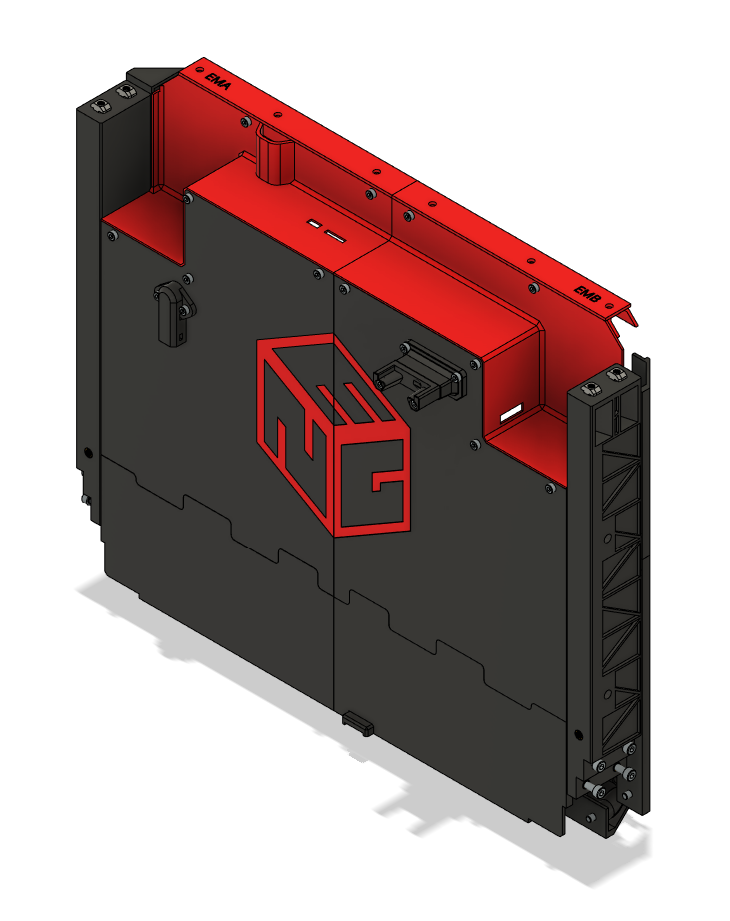
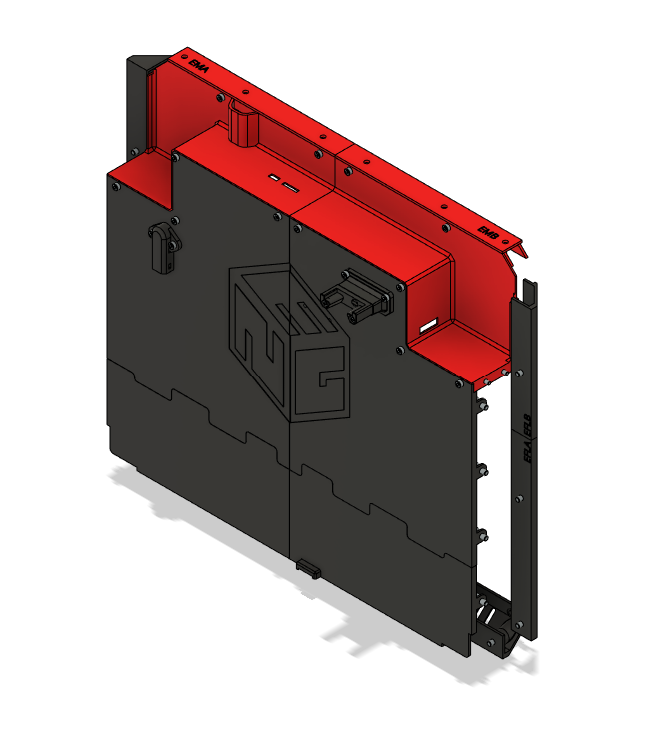
Add side aluminium extrusions

diff --git a/2.electronics/electronics.md b/2.electronics/electronics.md
@@ -38,34 +38,24 @@ Rear part of the printer
 | [H3](#h3---eng-ema-and-eng-emb), [G5](#g5---attach-eng-ema-and-eng-emb) | ENG-EMB | 1 | Printed
 | [H3](#h3---eng-ema-and-eng-emb) | M3 heat insert standard | 5 | Hardware | For ENG-EMB
 | [G5](#g5---attach-eng-ema-and-eng-emb) | M3x6 | 4 | Hardware | Connect ENG-EMA and ENG-EMB to ENG-ESA and ENG-ESB
-| [P9](#p9---eng-est), [G6](#g6---attach-back-plate-to-the-rear-part-of-the-bottom-frame) | ENG-EST | 1 | Printed
-| [G6](#g6---attach-back-plate-to-the-rear-part-of-the-bottom-frame) | M4x8 | 4 | Hardware | Connect Back plate to Bottom frame
-| [G6](#g6---attach-back-plate-to-the-rear-part-of-the-bottom-frame) | M4 T-nut | 4 | Hardware | Connect Back plate to Bottom frame
-| [H4](#h4---eng-ftl-and-eng-ftr), [G7](#g7---attach-side-frame) | ENG-FTL | 1 | Printed
-| [H4](#h4---eng-ftl-and-eng-ftr) | M4 heat insert standard | 11 | Hardware | For ENG-FTL
-| [H4](#h4---eng-ftl-and-eng-ftr) | M3 heat insert standard | 2 | Hardware | For ENG-FTL
-| [G7](#g7---attach-side-frame) | M4x16 | 4 | Hardware | Connect ENG-FTL to ENG-BRL
-| [G7](#g7---attach-side-frame) | M4x8 | 3 | Hardware | Connect ENG-FTL to ENG-EPA1
-| [G7](#g7---attach-side-frame) | M4x8 | 1 | Hardware | Connect ENG-FTL to ENG-EPA2
-| [G7](#g7---attach-side-frame) | M3x6 | 2 | Hardware | Connect ENG-FTL to ENG-ESA
-| [H4](#h4---eng-ftl-and-eng-ftr), [G7](#g7---attach-side-frame) | ENG-FTR | 1 | Printed
-| [H4](#h4---eng-ftl-and-eng-ftr) | M4 heat insert standard | 11 | Hardware | For ENG-FTR
-| [H4](#h4---eng-ftl-and-eng-ftr) | M3 heat insert standard | 2 | Hardware | For ENG-FTR
-| [G7](#g7---attach-side-frame) | M4x16 | 4 | Hardware | Connect ENG-FTR to ENG-BRR
-| [G7](#g7---attach-side-frame) | M4x8 | 3 | Hardware | Connect ENG-FTR to ENG-EPB1
-| [G7](#g7---attach-side-frame) | M4x8 | 1 | Hardware | Connect ENG-FTR to ENG-EPB2
-| [G7](#g7---attach-side-frame) | M3x6 | 2 | Hardware | Connect ENG-FTL to ENG-ESB
-| [H5](#h5---eng-efba-and-eng-efbb), [G8.1](#g81---prepare-bottom-frame-rim) | ENG-EFBA | 1 | Printed
-| [H5](#h5---eng-efba-and-eng-efbb), [G8.1](#g81---prepare-bottom-frame-rim) | ENG-EFBB | 1 | Printed
-| [H5](#h5---eng-efba-and-eng-efbb) | M3 heat insert standard | 4 | For ENG-EFBA and ENG-EFBB
+| [G6](#g6---attach-side-frame) | M4x8 | 3 | Hardware | Connect left side to ENG-EPA1
+| [G6](#g6---attach-side-frame) | M4x8 | 1 | Hardware | Connect left side to ENG-EPA2
+| [G6](#g6---attach-side-frame) | M4x8 | 3 | Hardware | Connect right side to ENG-EPB1
+| [G6](#g6---attach-side-frame) | M4x8 | 1 | Hardware | Connect right side to ENG-EPB2
+| [P9](#p9---eng-est), [G7](#g7---attach-back-plate-to-the-rear-part-of-the-bottom-frame) | ENG-EST | 1 | Printed
+| [G7](#g7---attach-back-plate-to-the-rear-part-of-the-bottom-frame) | M4x8 | 4 | Hardware | Connect Back plate to Bottom frame
+| [G7](#g7---attach-back-plate-to-the-rear-part-of-the-bottom-frame) | M4 T-nut | 4 | Hardware | Connect Back plate to Bottom frame
+| [H4](#h4---eng-efba-and-eng-efbb), [G8.1](#g81---prepare-bottom-frame-rim) | ENG-EFBA | 1 | Printed
+| [H4](#h4---eng-efba-and-eng-efbb), [G8.1](#g81---prepare-bottom-frame-rim) | ENG-EFBB | 1 | Printed
+| [H4](#h4---eng-efba-and-eng-efbb) | M3 heat insert standard | 4 | For ENG-EFBA and ENG-EFBB
 | [P10](#p10---eng-efj), [G8.1](#g81---prepare-bottom-frame-rim) | ENG-EFJ | 1 | Printed
 | [G8.2](#g82---screw-bottom-frame-rim-to-back-plate) | M4x10 | 4 | Hardware | Connect ENG-EFBA, ENG-EFBB, and ENG-EFJ to back plate
-| [H6](#h6---eng-efla-and-eng-efrb), [#G9.1](#g91---prepare-side-frame-rims) | ENG-EFLA | 1 | Printed
-| [H6](#h6---eng-efla-and-eng-efrb), [#G9.1](#g91---prepare-side-frame-rims) | ENG-EFRB | 1 | Printed
-| [H6](#h6---eng-efla-and-eng-efrb) | M3 heat insert standard | 4 | For ENG-EFLA and ENG-EFRB
-| [H7](#h7---eng-eflb-and-eng-efra), [#G9.1](#g91---prepare-side-frame-rims) | ENG-EFLB | 1 | Printed
-| [H7](#h7---eng-eflb-and-eng-efra), [#G9.1](#g91---prepare-side-frame-rims) | ENG-EFRA | 1 | Printed
-| [H7](#h7---eng-eflb-and-eng-efra) | M3 heat insert standard | 2 | For ENG-EFLB and ENG-EFRA
+| [H5](#h5---eng-efla-and-eng-efrb), [#G9.1](#g91---prepare-side-frame-rims) | ENG-EFLA | 1 | Printed
+| [H5](#h5---eng-efla-and-eng-efrb), [#G9.1](#g91---prepare-side-frame-rims) | ENG-EFRB | 1 | Printed
+| [H5](#h5---eng-efla-and-eng-efrb) | M3 heat insert standard | 4 | For ENG-EFLA and ENG-EFRB
+| [H6](#h6---eng-eflb-and-eng-efra), [#G9.1](#g91---prepare-side-frame-rims) | ENG-EFLB | 1 | Printed
+| [H6](#h6---eng-eflb-and-eng-efra), [#G9.1](#g91---prepare-side-frame-rims) | ENG-EFRA | 1 | Printed
+| [H6](#h6---eng-eflb-and-eng-efra) | M3 heat insert standard | 2 | For ENG-EFLB and ENG-EFRA
 | [P10](#p10---eng-efj), [#G9.1](#g91---prepare-side-frame-rims) | ENG-EFJ | 2 | Printed
 | [G9.2](#g92---screw-side-frame-rims-to-back-plate) | M4x10 | 6 | Hardware | Connect ENG-EFLA, ENG-EFRB, ENG-EFLB, ENG-EFRA, 2 ENG-EFJ to back plates
 | [P11](#p11---eng-kpm), [G10.1](#g101---attach-eng-kpm-to-the-back-plate) | ENG-KPM | 1 | Printed
@@ -75,6 +65,19 @@ Rear part of the printer
 | [P13](#p13---eng-ebc), [G11](#g11---attach-eng-ebc-to-back-plate) | ENG-EBC | 1 | Printed
 | [G11](#g11---attach-eng-ebc-to-back-plate) | M3x12 | 2 | Hardware | Connect ENG-EBC to ENG-EPA1
 
+#### RF.A - Specific parts for the Printed version of rear frames
+
+| Step | Part | Count | Type | Note |
+| ---- | ---- | ----- | ---- | ---- |
+| [G6](#g6---attach-side-frame) | M3x6 | 2 | Hardware | Connect ENG-FTL to ENG-ESA
+| [G6](#g6---attach-side-frame) | M3x6 | 2 | Hardware | Connect ENG-FTR to ENG-ESB
+
+#### RF.B/RF.C/RF.D - Specific parts for the 2040 aluminium extrusion versions of rear frames
+
+| Step | Part | Count | Type | Note |
+| ---- | ---- | ----- | ---- | ---- |
+| [G6](#g6---attach-side-frame) | M4 T-nut | 8 | Hardware | Connect sides to back plate
+| [G9.2](#g92---screw-side-frame-rims-to-back-plate) | M4 T-nut | 6 | Hardware | Connect frame rim to sides
 
 #### Ender 3 Pro Specific parts
 
@@ -177,19 +180,7 @@ Each part has 5 standard M3 heat inserts.
 
 <img src="eng_ema-heatinserts.png" alt="ENG-EMA Heat Inserts" height="100"/>
 
-#### H4 - ENG-FTL and ENG-FTR
-
-ENG-FTL and ENG-FTR are mirrored parts.
-
-<img src="eng_ftl.png" alt="ENG-FTL" height="400"/>
-<img src="eng_ftr.png" alt="ENG-FTR" height="400"/>
-
-Each part has 11 standand M4 inserts and 2 standard M3 inserts. The first figure below shows M4 ones, and the second shows M3 ones.
-
-<img src="eng_ftl-m4inserts.png" alt="ENG-FTL - M4 Heat Inserts" height="400"/>
-<img src="eng_ftl-m3inserts.png" alt="ENG-FTL - M3 Heat Inserts" height="400"/>
-
-#### H5 - ENG-EFBA and ENG-EFBB
+#### H4 - ENG-EFBA and ENG-EFBB
 
 ENG-EFBA and ENG-EFBB are mirrored parts.
 
@@ -198,7 +189,7 @@ ENG-EFBA and ENG-EFBB are mirrored parts.
 
 Each part has 2 standerd M3 heat inserts, as shown above.
 
-#### H6 - ENG-EFLA and ENG-EFRB
+#### H5 - ENG-EFLA and ENG-EFRB
 
 ENG-EFLA and ENG-EFRB are mirrored parts.
 
@@ -207,7 +198,7 @@ ENG-EFLA and ENG-EFRB are mirrored parts.
 
 Each part has 2 standerd M3 heat inserts, as shown above.
 
-#### H7 - ENG-EFLB and ENG-EFRA
+#### H6 - ENG-EFLB and ENG-EFRA
 
 ENG-EFLB and ENG-EFRA are mirrored parts.
 
@@ -263,19 +254,25 @@ Use 4 M3x6 to attach ENG-EMA and ENG-EMB to ENG-ESA and ENG-ESB
 
 <img src="step5.png" alt="Step 5" height="300"/>
 
-#### G6 - Attach Back plate to the rear part of the bottom frame
+#### G6 - Attach side frame
 
-Use 4 M4x8, 4 M4 T-nuts, and add ENG-EST in the proper position.
+For each side:
+
+- Use 3 M4x8 to attach side to ENG-EPA1/ENG-EPB1. 
+- Use 1 M4x8 to attach side to ENG-EPA2/ENG-EPB2. 
 
 <img src="step6.png" alt="Step 6" height="300"/>
 
-#### G7 - Attach side frame
+If you are using aluminium extrusion sides (RF.B, RF.C, RF.D), use 4 M4 T-nuts in each side too. Prepare them in advance and slide back plate into position.
 
-For each side:
-- Use 4 M4x16 to attach ENG-FTL/ENG-FTR to ENG-BRL/ENG-BRR (bottom corners). 
-- Use 3 M4x8 to attach ENG-FTL/ENG-FTR to ENG-EPA1/ENG-EPB1. 
-- Use 1 M4x8 to attach ENG-FTL/ENG-FTR to ENG-EPA2/ENG-EPB2. 
-- Use 2 M3x6 to attach ENG-FLT/ENG-FTR to ENG-ESA/ENG-ESB. 
+If you are using printed version (RF.A), use 2 M3x6 to attach ENG-FLT/ENG-FTR to ENG-ESA/ENG-ESB. 
+
+<img src="step6rfa.png" alt="Step 6:RF.A" height="300"/>
+![Alt text](image.png)
+
+#### G7 - Attach Back plate to the rear part of the bottom frame
+
+Use 4 M4x8, 4 M4 T-nuts, and add ENG-EST in the proper position.
 
 <img src="step7.png" alt="Step 7" height="300"/>
 
@@ -307,6 +304,8 @@ Glue 1 ENG-EFJ to ENG-EFRA and ENG-EFRB.
 #### G9.2 - Screw Side Frame Rims to Back Plate
 
 Use 6 M4x10.
+
+If you are using aluminium extrusion sides (RF.B, RF.C, RF.D), use 6 M4 T-nuts.
 
 <img src="step9.2.png" alt="Step 9.2" height="300"/>
 

diff --git a/1.bottom/bottom.md b/1.bottom/bottom.md
@@ -4,6 +4,14 @@ Bottom frame and Z lift.
 
 ![Expected result](bottom.png)
 
+Note:  In the previous version of this guide, installing the rear frame ([G16](#g16---install-the-rear-frames)) was part of [Electronics/G6](../3.electronics/electronics.md#g6---attach-side-frame). It was moved here because there are 4 alternatives of rear frames, and installing the aluminium ones on the electronics enclosure without guidance would be challenging. If you are using alternative RF.A, it maybe better to attach the side frame to the electronics enclosure before attaching it to the bottom frame, as suggested before (during Electronics/G6). Here are the alternatives of rear frames:
+
+- Alternative RF.A (default): printed version
+- Alternative RF.B: 2x 350mm 2040 aluminium extrusion
+- Alternative RF.C: 2x 300mm 2040 aluminium extrusion
+- Alternative RF.D: 2x 310mm 2040 aluminium extrusion
+
+
 ## Table of Contents 
 
 - [BOM](#bom)
@@ -17,10 +25,6 @@ Bottom frame and Z lift.
 
 | Step | Part | Count | Type | Note |
 | ---- | ---- | ----- | ---- | ---- |
-| [H1](#h1---eng-blr-and-eng-blr), [G1](#g1---get-corners) | ENG-BLR | 1 | Printed |
-| [H1](#h1---eng-blr-and-eng-blr) | M4 heat insert standard | 2 | Hardware | For ENG-BLR
-| [H1](#h1---eng-blr-and-eng-blr), [G1](#g1---get-corners) | ENG-BRR| 1 | Printed |
-| [H1](#h1---eng-blr-and-eng-blr) | M4 heat insert standard | 2 | Hardware | For ENG-BRR
 | [H2](#h2---eng-blfa-and-eng-brfa), [G1](#g1---get-corners) | ENG-BLFA| 1 | Printed |
 | [H2](#h2---eng-blfa-and-eng-brfa) | M4 heat insert standard | 6 | Hardware | For ENG-BLFA
 | [H2](#h2---eng-blfa-and-eng-brfa) | M5 heat insert standard | 2 | Hardware | For ENG-BLFA
@@ -76,6 +80,32 @@ Bottom frame and Z lift.
 | [G14](#g14---add-two-bearing-systems-to-z-belt) | M5x20 | 1 | Hardware | Connect bearing to ENG-ZBT1/ENG-ZBT2
 | [G15](#g15---add-linear-rods) | Z linear rods 12x350mm | 2 | Motion
 | [G15](#g15---add-linear-rods) | M4x8 grubscrew | 2 | Hardware
+
+#### RF.A - Specific parts for the Printed version of rear frames
+
+| Step | Part | Count | Type | Note |
+| ---- | ---- | ----- | ---- | ---- |
+| [H1:RF.A](#h1rfa---eng-blr-and-eng-blr), [G1](#g1---get-corners) | ENG-BLR | 1 | Printed |
+| [H1:RF.A](#h1rfa---eng-blr-and-eng-blr) | M4 heat insert standard | 2 | Hardware | For ENG-BLR
+| [H1:RF.A](#h1rfa---eng-blr-and-eng-blr), [G1](#g1---get-corners) | ENG-BRR| 1 | Printed |
+| [H1:RF.A](#h1rfa---eng-blr-and-eng-blr) | M4 heat insert standard | 2 | Hardware | For ENG-BRR
+| [H8:RF.A](#h8rfa---eng-ftl-and-eng-ftr), [G16:RF.A](#g16rfa---printed-version) | ENG-FTL | 1 | Printed
+| [H8:RF.A](#h8rfa---eng-ftl-and-eng-ftr) | M4 heat insert standard | 11 | Hardware | For ENG-FTL
+| [H8:RF.A](#h8rfa---eng-ftl-and-eng-ftr) | M3 heat insert standard | 2 | Hardware | For ENG-FTL
+| [H8:RF.A](#h8rfa---eng-ftl-and-eng-ftr), [G16:RF.A](#g16rfa---printed-version) | ENG-FTR | 1 | Printed
+| [H8:RF.A](#h8rfa---eng-ftl-and-eng-ftr) | M4 heat insert standard | 11 | Hardware | For ENG-FTR
+| [H8:RF.A](#h8rfa---eng-ftl-and-eng-ftr) | M3 heat insert standard | 2 | Hardware | For ENG-FTR
+| [G16:RF.A](#g16rfa---printed-version) | M4x16 | 4 | Hardware | Connect ENG-FTL to ENG-BRL
+| [G16:RF.A](#g16rfa---printed-version) | M4x16 | 4 | Hardware | Connect ENG-FTR to ENG-BRR
+
+#### RF.B - Specific parts for the 350mm 2040 aluminium extrusion version of rear frames
+
+| Step | Part | Count | Type | Note |
+| ---- | ---- | ----- | ---- | ---- |
+| [H1:RF.B](#h1rfb---eng-blr_2040_350-and-eng-brr_2040_350), [G1](#g1---get-corners) | ENG-BLR_2040_350 | 1 | Printed |
+| [H1:RF.B](#h1rfb---eng-blr_2040_350-and-eng-brr_2040_350), [G1](#g1---get-corners) | ENG-BRR_2040_350| 1 | Printed |
+| [G16](#g16rfb---350mm-2040-aluminium-extrusion-version-of-rear-frames) | 350mm 2040 aluminium extrusion | 2 | Hardware | Bought separately - it is not part of the Ender 3
+
 
 #### Ender 3 Pro Specific parts
 
@@ -160,7 +190,9 @@ ENG-BLFB and ENG-BRFB are mirrored parts:
 
 This section lists printed parts that require an initial preparation, such as adding heat inserts or installing microswitches.
 
-#### H1 - ENG-BLR and ENG-BLR
+#### H1:RF.A - ENG-BLR and ENG-BRR
+
+**Note: these parts are only valid for the printed version of rear frames (RF.A)**
 
 ENG-BLR and ENG-BRR are mirrored parts:
 
@@ -176,6 +208,20 @@ Each part has 2 standard M4 heat inserts, as follows:
 <img src="eng_blr-back.png" alt="ENG-BLR" height="200"/>
 <img src="eng_blr-backside.png" alt="ENG-BLR" height="200"/>
 <img src="eng_blr-bottom.png" alt="ENG-BLR" height="200"/>
+
+#### H1.RF.B - ENG-BLR_2040_350 and ENG-BRR_2040_350
+
+**Note: these parts are only valid for the 350mm 2040 aluminium extrusion version of rear frames**
+
+ENG-BLR_2040_350 and ENG-BRR_2040_350 are mirrored parts:
+
+- ENG-BLR_2040_350: Bottom frame left rear corner – 2040 extrusion
+- ENG-BRR_2040_350: Bottom frame right rear corner – 2040 extrusion
+
+<img src="eng_blr_2040_350.png" alt="ENG-BLR_2040_350" height="200"/>
+<img src="eng_brr_2040_350.png" alt="ENG-BRR_2040_350" height="200"/>
+
+Each part has 2 built-in supports that you must cut off before installing.
 
 #### H2 - ENG-BLFA and ENG-BRFA
 
@@ -251,13 +297,35 @@ OPTIONAL: You may also add a microswitch D2F-L to serve as a max Z endstop with 
 
 <img src="eng_bza-switch.png" alt="ENG-BZA" height="200"/>
 
+
+#### H8:RF.A - ENG-FTL and ENG-FTR
+
+ENG-FTL and ENG-FTR are mirrored parts.
+
+<img src="eng_ftl.png" alt="ENG-FTL" height="400"/>
+<img src="eng_ftr.png" alt="ENG-FTR" height="400"/>
+
+Each part has 11 standand M4 inserts and 2 standard M3 inserts. The first figure below shows M4 ones, and the second shows M3 ones.
+
+<img src="eng_ftl-m4inserts.png" alt="ENG-FTL - M4 Heat Inserts" height="400"/>
+<img src="eng_ftl-m3inserts.png" alt="ENG-FTL - M3 Heat Inserts" height="400"/>
+
+
 ## G - Guide
 
 #### G1 - Get corners
 
-Use parts ENG-BLR, ENG-BRR, ENG-BLFA, and ENG-BRFA.
+For the front, use parts ENG-BLFA, and ENG-BRFA.
+
+For the rear, it varies according to the rear frame alternative:
+- RF.A: ENG-BLR, ENG-BRR
+- RF.B: ENG-BLR_2040_350, ENG-BRR_2040_350
+- RF.C: ENG-BLR_2040_300, ENG-BRR_2040_300
+- RF.D: ENG-BLR_2040_310, ENG-BRR_2040_310
 
 <img src="step1.png" alt="Step 1" height="300"/>
+
+The figure shows RF.A.
 
 #### G2 - Install 4040 Base Frames to the sides
 
@@ -362,7 +430,6 @@ Prepare each leadscrew by making a "sandwich" with 2 608 2RS bearings and 1 ENG-
 
 At this moment, the leadscrews may not stay in position, but the next steps should help with that.
 
-
 #### G10 - Mount tensioner
 
 <img src="step10.png" alt="Step 10" height="300"/>
@@ -428,3 +495,18 @@ Insert linear rods and close set each of them in position with 1 M4x8 grubscrew.
 
 <img src="step15.png" alt="Step 15" height="300"/>
 
+#### G16 - Install the Rear Frames
+
+The installation changes according to the desired rear frame
+
+#### G16:RF.A - Printed version of Rear Frames
+
+For each side, use 4 M4x16 to attach ENG-FTL/ENG-FTR to ENG-BRL/ENG-BRR. 
+
+<img src="step16rfa.png" alt="Step 16:RF.A" height="300"/>
+
+#### G16:RF.B - 350mm 2040 aluminium extrusion version of rear frames
+
+For each side, use 4 M4 T-nut and 4 M4x8 to attach 2040 aluminium extrusion to ENG-BRL_2040_350/ENG-BRR_2040_350
+
+<img src="step16rfb.png" alt="Step 16:RF.B" height="300"/>

diff --git a/4.top/top.md b/4.top/top.md
@@ -97,14 +97,28 @@ Top frame with X and Y gantry.
 | [P7](#p7---eng-xcb), [G5](#g5---insert-belts) | ENG-XCB | 2 | Printed
 | [G5](#g5---insert-belts) | M4x10 | 2 | Hardware | Connect ENG-XCB to ENG-XC0
 | [G5](#g5---insert-belts) | GT2 belt 6mm | 2 | Motion | X and Y belt
-| [G6](#g6---mount-top-frame-to-the-rest-of-the-printer) | M4 T-nut | 10 | Hardware | Connect top frame to printer
-| [G6](#g6---mount-top-frame-to-the-rest-of-the-printer) | M4x6 | 6 | Hardware | Connect top frame to printer
-| [G6](#g6---mount-top-frame-to-the-rest-of-the-printer) | M4x8 | 4 | Hardware | Connect top frame to printer
+| [G6](#g6---mount-top-frame-to-the-rest-of-the-printer) | M4 T-nut | 6 | Hardware | Connect top frame to back plate
+| [G6](#g6---mount-top-frame-to-the-rest-of-the-printer) | M4x6 | 6 | Hardware | Connect top frame to back plate
 | [G6](#g6---mount-top-frame-to-the-rest-of-the-printer) | M4x8 grubscrew | 2 | Hardware | Connect top frame to printer
 | [P8](#p8---eng-ecs), [G7](#g7---install-cable-strain-mount) | ENG-ECS | 1 | Printed
 | [G7](#g7---install-cable-strain-mount) | M4 T-nut | 2 | Hardware | Connect ENG-ECS to frame
 | [G7](#g7---install-cable-strain-mount) | M4x6 | 2 | Hardware | Connect ENG-ECS to frame
 
+#### RF.A - Specific parts for the Printed version of rear frames
+
+| Step | Part | Count | Type | Note |
+| ---- | ---- | ----- | ---- | ---- |
+| [G6](#g6---mount-top-frame-to-the-rest-of-the-printer) | M4 T-nut | 4 | Hardware | Connect top frame to sides
+| [G6](#g6---mount-top-frame-to-the-rest-of-the-printer) | M4x8 | 4 | Hardware | Connect top frame to sides
+
+#### RF.B/RF.C/RF.D - Specific parts for the 2040 aluminium extrusion versions of rear frames
+
+| Step | Part | Count | Type | Note |
+| ---- | ---- | ----- | ---- | ---- |
+| [P9:RF.B/RF.C/RF.D](#p9rfbrfcrfd---eng-tjl-and-eng-tjr), [G6](#g6---mount-top-frame-to-the-rest-of-the-printer) | ENG-TJL_2040 | 1 | Printed
+| [P9:RF.B/RF.C/RF.D](#p9rfbrfcrfd---eng-tjl-and-eng-tjr), [G6](#g6---mount-top-frame-to-the-rest-of-the-printer) | ENG-TJR_2040 | 1 | Printed
+| [G6](#g6---mount-top-frame-to-the-rest-of-the-printer) | M4 T-nut | 16 | Hardware | Connect top frame to sides
+| [G6](#g6---mount-top-frame-to-the-rest-of-the-printer) | M4x8 | 16 | Hardware | Connect top frame to sides
 
 ## P - Printed Parts
 
@@ -167,6 +181,17 @@ Print 2.
 Electornics enclosure - cable strain
 
 <img src="eng_ecs.png" alt="ENG-ECS" height="300"/>
+
+#### P9:RF.B/RF.C/RF.D - ENG-TJL_2040 and ENG-TJR_2040
+
+**Note: these parts are only valid for the 2040 aluminium extrusion version of rear frames**
+
+ENG-TJL_2040 and ENG-TJR_2040 are mirrored parts:
+- ENG-TJL_2040: Left top joint – 2040 extrusions
+- ENG-TJR_2040: Right top joint – 2040 extrusions
+
+<img src="eng_tjl.png" alt="ENG-TJL_2040" height="300"/>
+<img src="eng_tjr.png" alt="ENG-TJR_2040" height="300"/>
 
 
 ## H - Printed Parts with Heat Inserts/Microswitches
@@ -433,11 +458,21 @@ Hold them on X Carriage with 2 ENG-XCB and 2 M4x10. Make sure you follow the pat
 #### G6 - Mount top frame to the rest of the printer
 
 - Use 6 M4 T-nut and 6 M4x6 to connect to electronics enclosure
-- Use 4 M4 T-nut and 4 M4x8 to connect to the sides
 - Use 2 M4x8 grubscrews to connect to Z linear rods
 
 <img src="step6.png" alt="Step 6" height="300"/>
 
+#### G6:RF.A - Connect top frame to the sides
+
+Use 4 M4 T-nut and 4 M4x8 to connect to the sides
+
+<img src="step6rfa.png" alt="Step 6:RF.A" height="300"/>
+
+#### G6:RF.B/RF.C/RF.D - Connect top frame to the sides
+
+Use 16 M4 T-nut and 16 M4x8 to connect top frame to the sides using ENG-TJL and ENG-TJR
+
+<img src="step6rfbcd.png" alt="Step 6:RF.B/RF.C/RF.D" height="300"/>
 
 #### G7 - Install Cable Strain Mount
 

diff --git a/README.md b/README.md
@@ -10,6 +10,11 @@ This guide has 5 parts:
 4. [Top frame](4.top/top.md)
 5. [Hotend/Extruder](5.hotend-extruder/hotend-extruder.md)
 
+## Changelog
+
+- 2023-09-16 - Add side alumininium extrusions mod
+- 2023-09-15 - Initial version
+
 ## Disclaimers
 
 I (@JoaoFelipe) made this guide based on the [.step file](https://ko-fi.com/s/f1be48e43a) to prepare myself to build the printer. The .step (and thus this guide) may be outdated, since the printer is currently in beta.
